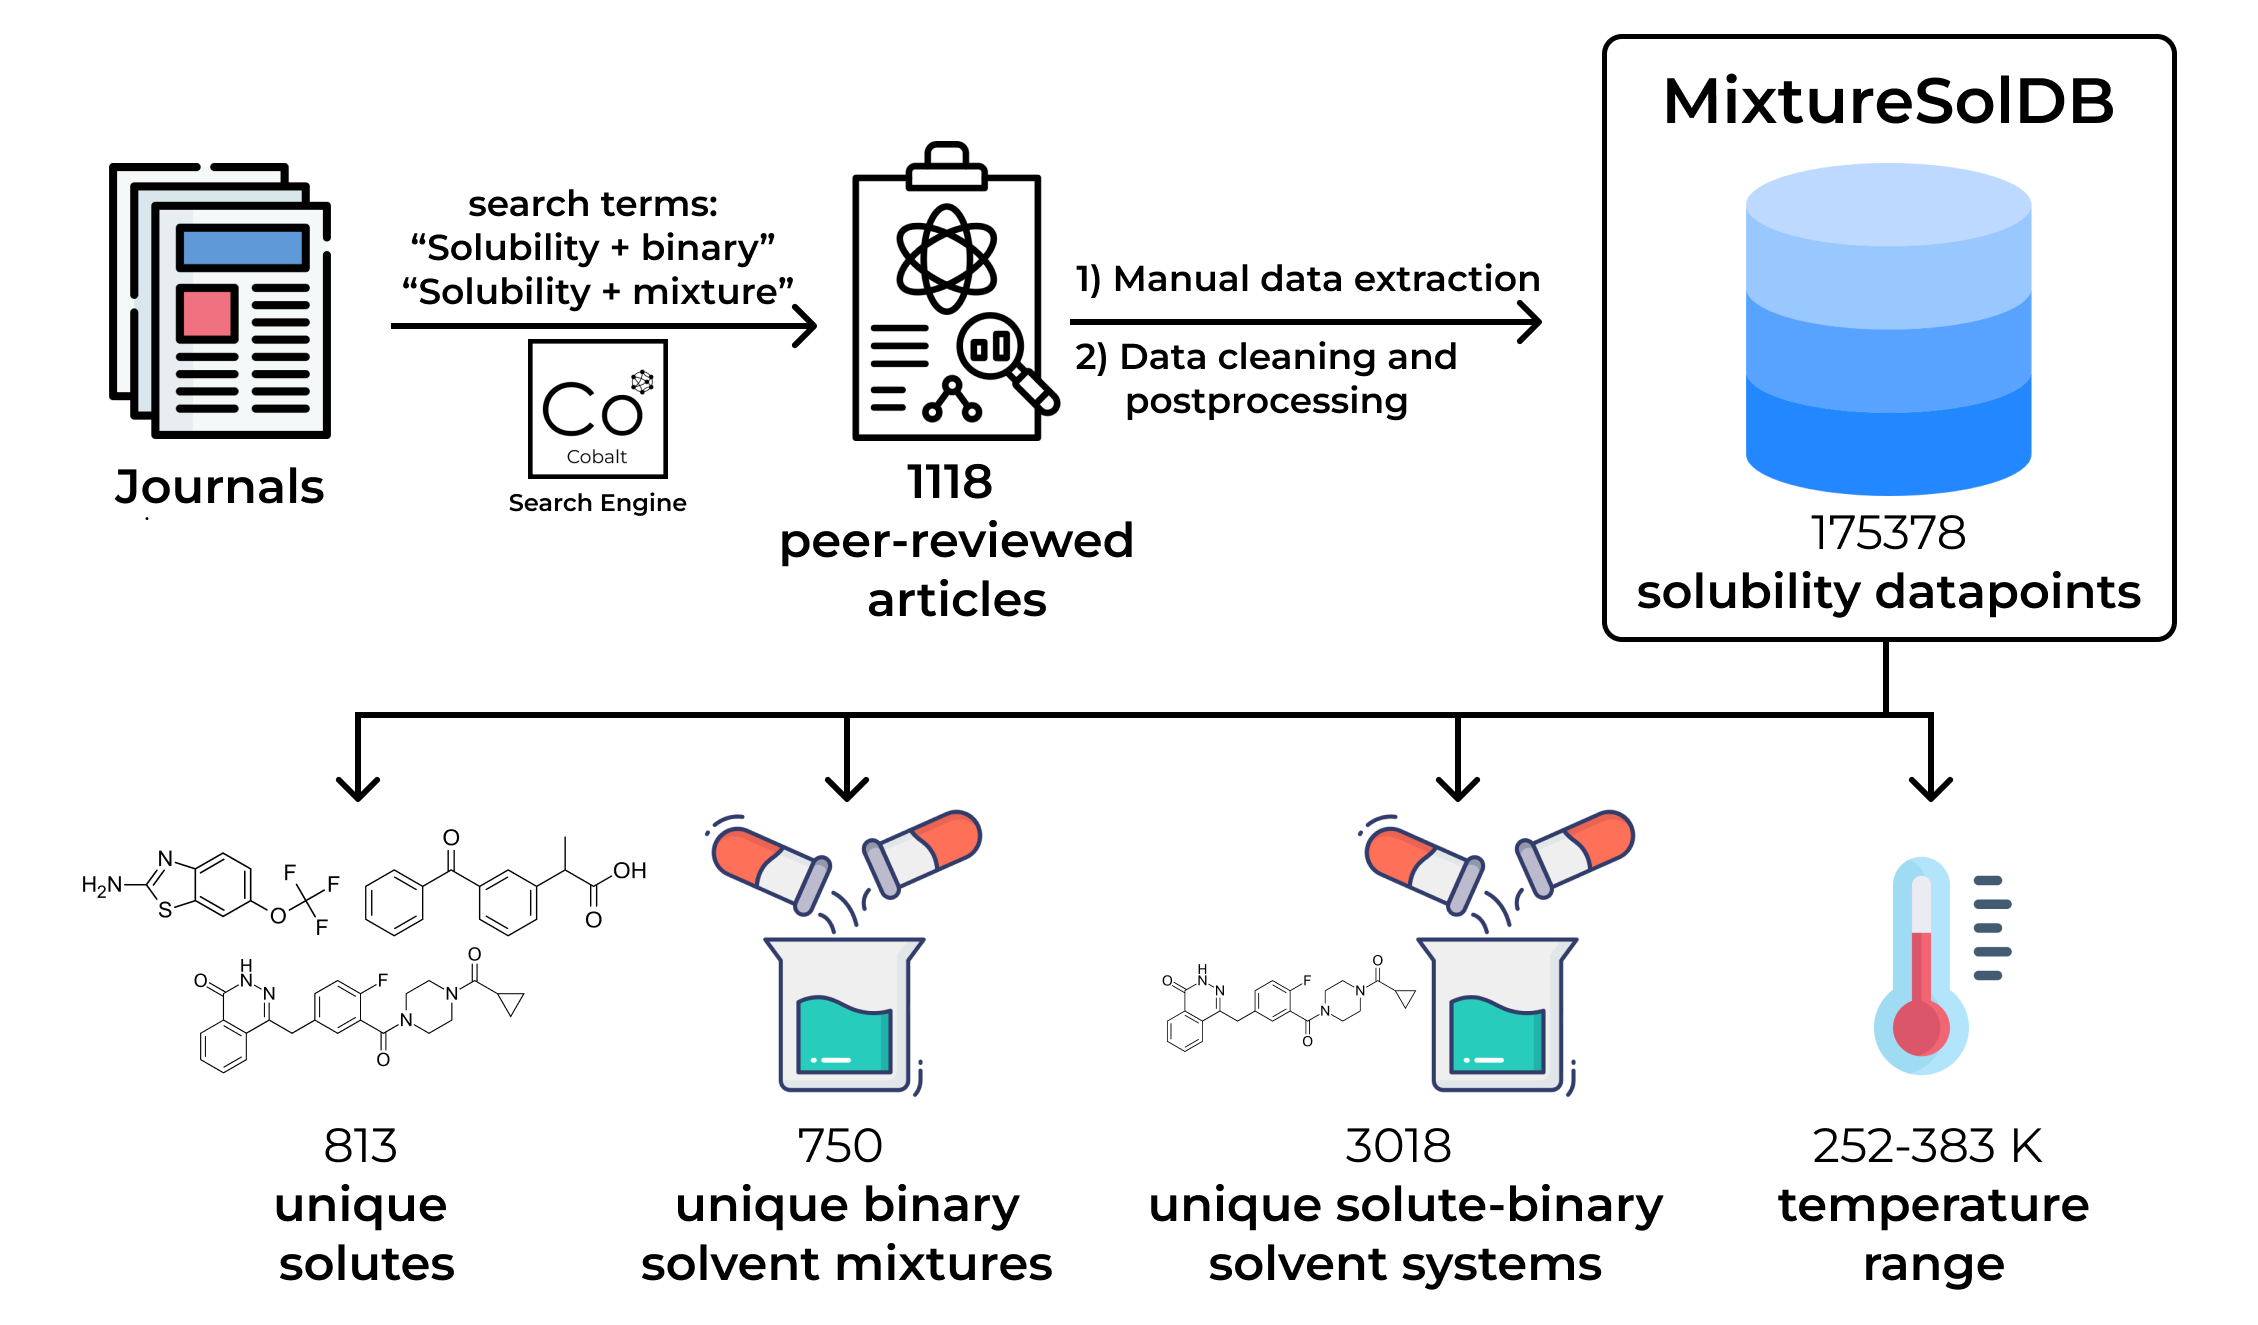
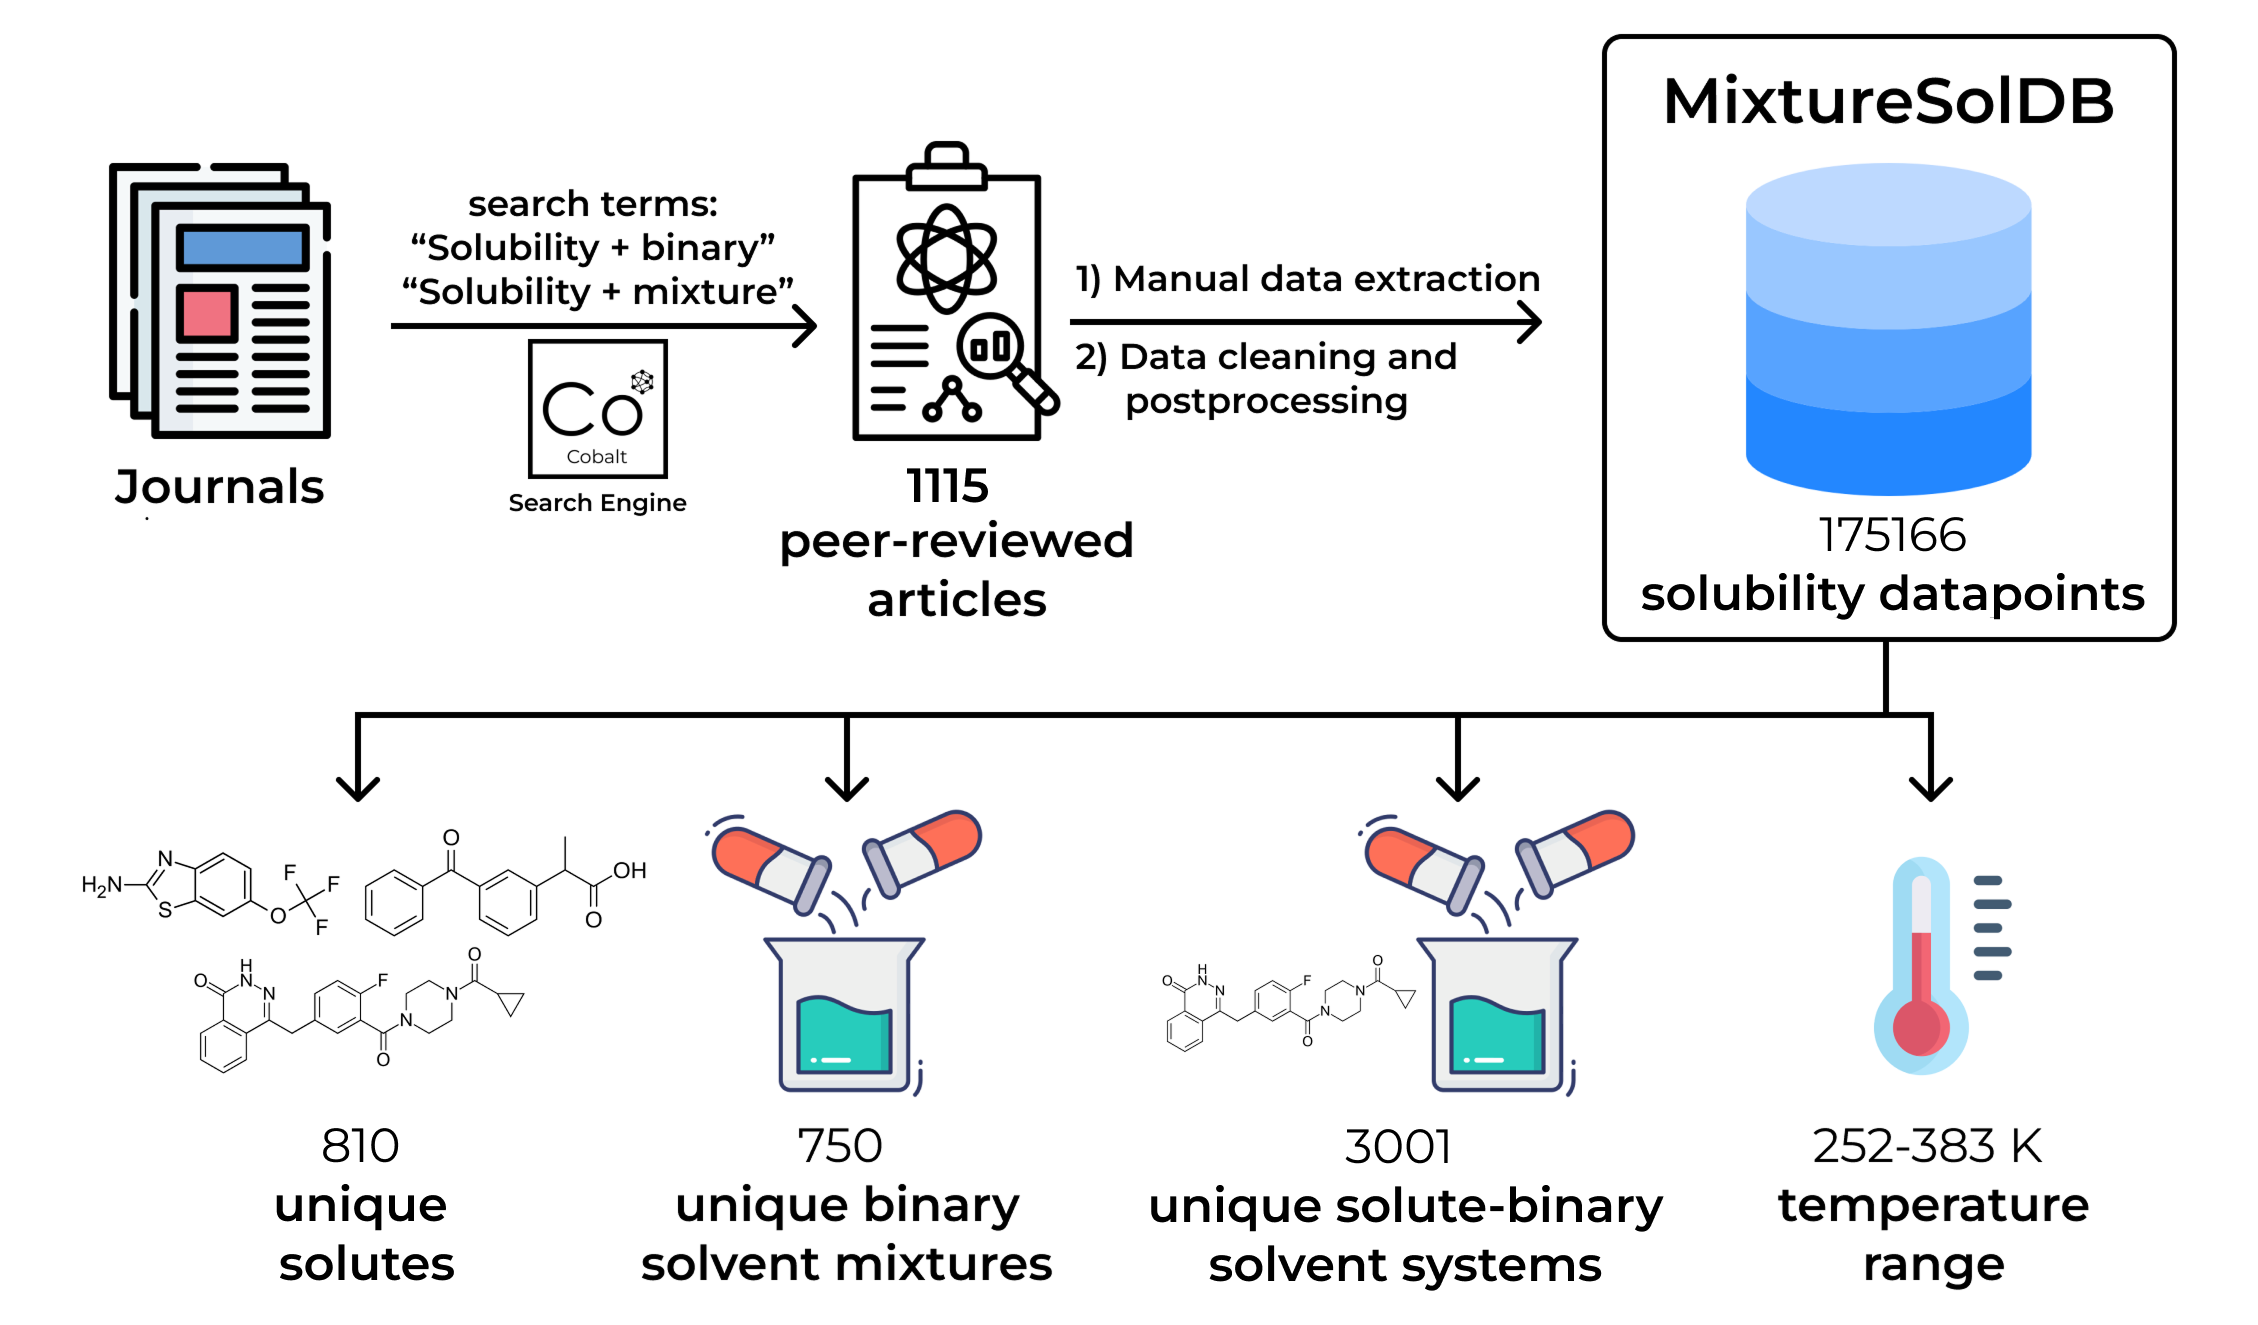
add new version

diff --git a/README.md b/README.md
@@ -2,7 +2,7 @@
     <img src="TOC.png" width="100%">
 </div>
 
-MixtureSolDB contains 175378 experimental solubility values within a temperature range from 252 to 383 K for 813 organic compounds as well as 3018 unique solute-binary solvent systems as well as 750 unique binary solvent mixtures extracted from 1118 peer-reviewed articles.
+MixtureSolDB contains 175166 experimental solubility values within a temperature range from 252 to 383 K for 810 organic compounds as well as 3018 unique solute-binary solvent systems as well as 750 unique binary solvent mixtures extracted from 1115 peer-reviewed articles.
 
 Visit our demo <https://mixturesoldb.streamlit.app/>.
 
